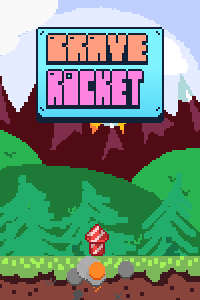
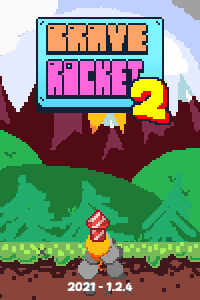
update 1.2.4
changelog
- updated logo
- tweaked some particles ?
- das abt it

diff --git a/src/braverocket/gui_system.js b/src/braverocket/gui_system.js
@@ -5,7 +5,7 @@ class GuiTitleScreenFooter {
         this.x = canvas.width/2;
         this.y = canvas.height - this.yOffset;
 
-        this.text = new Text(0,0, ['2021 - 1.2.3'], 12, '#ffffff', true);
+        this.text = new Text(0,0, ['2021 - 1.2.4'], 12, '#ffffff', true);
     }
 
     updateText() {
@@ -20,19 +20,22 @@ class GuiTitleScreenFooter {
 
 class GuiBraveRocketLogo {
     constructor() {
-        this.offstageY = -75;
-        this.offstageRate = 0.05;
+        this.offstageY = -90;
+        this.stageExitRate = 0.05;
+        this.offstage = true;
+        this.beginningSindiv = 30;
+        this.endSindiv = 20;
 
         this.sprite = new WholeSprite(assets['braverocket_logo'], 0,0, 2);
 
         this.x = canvas.width/2;
         this.y = this.offstageY;
 
-        this.yPositions = [90, 65];
-        this.step = 0;
-        this.tick = 0;
-        this.rate = 45;
-        this.animationMul = 0.05;
+        this.yposition = 75;
+        this.ydip = 90;
+        this.sincounter = 0;
+
+        this.sindiv = this.beginningSindiv;
 
         this.shouldanimate = true;
     };
@@ -40,19 +43,18 @@ class GuiBraveRocketLogo {
     updateAnimation() {
         if (!this.shouldanimate) return;
 
-        if (this.tick >= this.rate) {
-            this.tick = 0;
-
-            this.step++;
-            if (this.step >= this.yPositions.length) {
-                this.step = 0;
+        if (this.offstage) {
+            this.y = this.offstageY + (Math.sin(this.sincounter/this.sindiv) * (this.ydip - this.offstageY));
+            if (this.y >= this.ydip - 1) {
+                this.offstage = false;
+                this.sindiv = this.endSindiv;
             }
         }
         else {
-            this.tick++;
+            this.y = this.yposition + (Math.sin(this.sincounter/this.sindiv) * (this.ydip - this.yposition));
         }
 
-        this.y += this.animationMul * (this.yPositions[this.step] - this.y);
+        this.sincounter++;
     }
 
     update() {
@@ -68,15 +70,63 @@ class GuiBraveRocketLogo {
     }
 }
 
+class GuiLogoNumber {
+    constructor() {
+        this.logoOffX = 60;
+        this.logoOffY = 40;
+
+        this.sprite = new WholeSprite(assets['number_two'], 0,0, 2);
+
+        this.x = 0;
+        this.y = 0;
+
+        this.sincounter = 0;
+        this.sindiv = 12;
+        this.sinX = 0;
+        this.sinY = 0;
+        this.circleradius = 10;
+    };
+
+    updateAnimation() {
+        const sininput = this.sincounter / this.sindiv;
+        this.sinX = Math.sin(sininput) * this.circleradius;
+        this.sinY = Math.cos(sininput) * this.circleradius;
+
+        this.sincounter++;
+    }
+
+    updatePosition() {
+        this.x = gui.braverocketlogo.x + this.logoOffX + this.sinX;
+        this.y = gui.braverocketlogo.y + this.logoOffY + this.sinY;
+    }
+
+    update() {
+        this.updatePosition();
+        this.updateAnimation();
+    }
+
+    updateSprite() {
+        this.sprite.centerOnto(this.x, this.y, 0, 0);
+    }
+    draw() {
+        this.updateSprite();
+        bufferFrame(this.sprite);
+    }
+}
+
 var gui = {
-    braverocket_logo: null,
-    titlescreen_footer: null
+    braverocketlogo: null,
+    logonumber: null,
+    titlescreenfooter: null
 };
 
 function resetGui() {
-    gui.braverocket_logo = new GuiBraveRocketLogo();
-    gui.braverocket_logo.updateSprite();
+    gui.braverocketlogo = new GuiBraveRocketLogo();
+    gui.braverocketlogo.updateSprite();
 
-    gui.titlescreen_footer = new GuiTitleScreenFooter();
-    gui.titlescreen_footer.updateText();
+    gui.logonumber = new GuiLogoNumber();
+    gui.logonumber.updateSprite();
+
+    gui.titlescreenfooter = new GuiTitleScreenFooter();
+    gui.titlescreenfooter.updateText();
 }

diff --git a/src/braverocket/loop_states.js b/src/braverocket/loop_states.js
@@ -22,14 +22,15 @@ const loopStates = {
             updateEntities();
 
             // gui
-            gui.braverocket_logo.update();
+            gui.braverocketlogo.update();
+            gui.logonumber.update();
 
             // playing
             if (!incutscene && controller.clicking) {
                 incutscene = true;
 
                 var etick = 0;
-                gui.braverocket_logo.shouldanimate = false;
+                gui.braverocketlogo.shouldanimate = false;
                 addEvent(() => {
                     if (etick === MAINGAME_DELAY) {
                         prepareMainGame();
@@ -41,8 +42,8 @@ const loopStates = {
                         // player
                         player.bottomoffset -= player.bottomoffsetRate * (player.bottomoffset - PLAYER_MAINGAME_BOTTOM_OFFSET);
                         // gui
-                        gui.braverocket_logo.y -= gui.braverocket_logo.offstageRate * (gui.braverocket_logo.y - gui.braverocket_logo.offstageY);
-                        gui.titlescreen_footer.text.invisible = true;
+                        gui.braverocketlogo.y -= gui.braverocketlogo.stageExitRate * (gui.braverocketlogo.y - gui.braverocketlogo.offstageY);
+                        gui.titlescreenfooter.text.invisible = true;
 
                         return false;
                     }
@@ -55,8 +56,9 @@ const loopStates = {
             drawPlayer();
 
             // gui
-            gui.braverocket_logo.draw();
-            gui.titlescreen_footer.draw();
+            gui.braverocketlogo.draw();
+            gui.logonumber.draw();
+            gui.titlescreenfooter.draw();
         }
     },
 

diff --git a/src/braverocket/entities.js b/src/braverocket/entities.js
@@ -39,14 +39,14 @@ class Player extends Entity {
         addEvent(() => {
             if (etick === DEATHSCROLL_DELAY) {
                 // boom
-                entities.push(particleSpawners.boom(x, y));
+                entities.push(particleSpawners.boom(x, y, this.vy*0.5));
 
                 // explosion
                 var explosionammount = PLAYER_EXPLOSION_MIN + velrange * (PLAYER_EXPLOSION_MAX - PLAYER_EXPLOSION_MIN);
                 for (var i = 0; i < explosionammount; i++) {
                     entities.push(particleSpawners.combust(x, y));
                 }
-
+            
                 this.sprite.invisible = true;
                 this.deathscroll = this.vy * DEATHSCROLL_VEL_MUL;
                 return true;

diff --git a/index.js b/index.js
@@ -6,7 +6,8 @@ loadAssets(
         ['floor', Image, 'src/braverocket/gfx/floor.png'],
         ['background_top', Image, 'src/braverocket/gfx/background_top.png'],
         ['background_bottom', Image, 'src/braverocket/gfx/background_bottom.png'],
-        ['braverocket_logo', Image, 'src/braverocket/gfx/braverocket_logo.png']
+        ['braverocket_logo', Image, 'src/braverocket/gfx/braverocket_logo.png'],
+        ['number_two', Image, 'src/braverocket/gfx/number_two.png']
     ],
     // when done
     () => {

diff --git a/src/braverocket/particles.js b/src/braverocket/particles.js
@@ -87,10 +87,11 @@ const particleSpawners = {
         return particle;
     },
 
-    boom: function(x, y) {
-        var animspeed = randInt(4, 6);
+    boom: function(x, y, vy) {
+        var animspeed = 8;
+        var vx = randNum(1, -1);
 
-        var particle = new Particle(x,y, 32,24, 0,0,1, 64,0, animspeed,PARTICLE_1_LENGTH);
+        var particle = new Particle(x,y, 32,24, vx,vy,0.9, 64,0, animspeed,PARTICLE_1_LENGTH);
         particle.sprite.scale = 3;
         particle.updateSprite();
 

diff --git a/src/braverocket/game.js b/src/braverocket/game.js
@@ -1,9 +1,4 @@
-// 1.1
-
-window.localStorage.braverocket ||= {
-    selectedskin: 0
-};
-const gameLocalStorage = window.localStorage.braverocket;
+// 1.2.4
 
 var globalpaused = false;
 var paused = false;

diff --git a/README.md b/README.md
@@ -1,10 +1,10 @@
 # <img src='https://github.com/nectarboy/brave-rocket/blob/main/src/assets/icon64.png?raw=true'> Brave Rocket 2
 > The second installment of the highly appraised and worldwide bestseller, Brave Rocket.
 
-!!!! WIP !!!! the little goblins are still building the [game](https://nectarboy.github.io/brave-rocket) ok ? (1.1)
+!!!! WIP !!!! the little goblins are still [building the game](https://nectarboy.github.io/brave-rocket) ok ? (1.2.4)
 
 ![mmm](https://github.com/nectarboy/brave-rocket/blob/main/docs/title_screen.png?raw=true)
-![yum](https://github.com/nectarboy/brave-rocket/blob/main/docs/uh_oh.png?raw=true)
+![yum](https://github.com/nectarboy/brave-rocket/blob/main/docs/islands.png?raw=true)
 
 ## How do I play ??
 - Move your mouse to move your little rocket around
